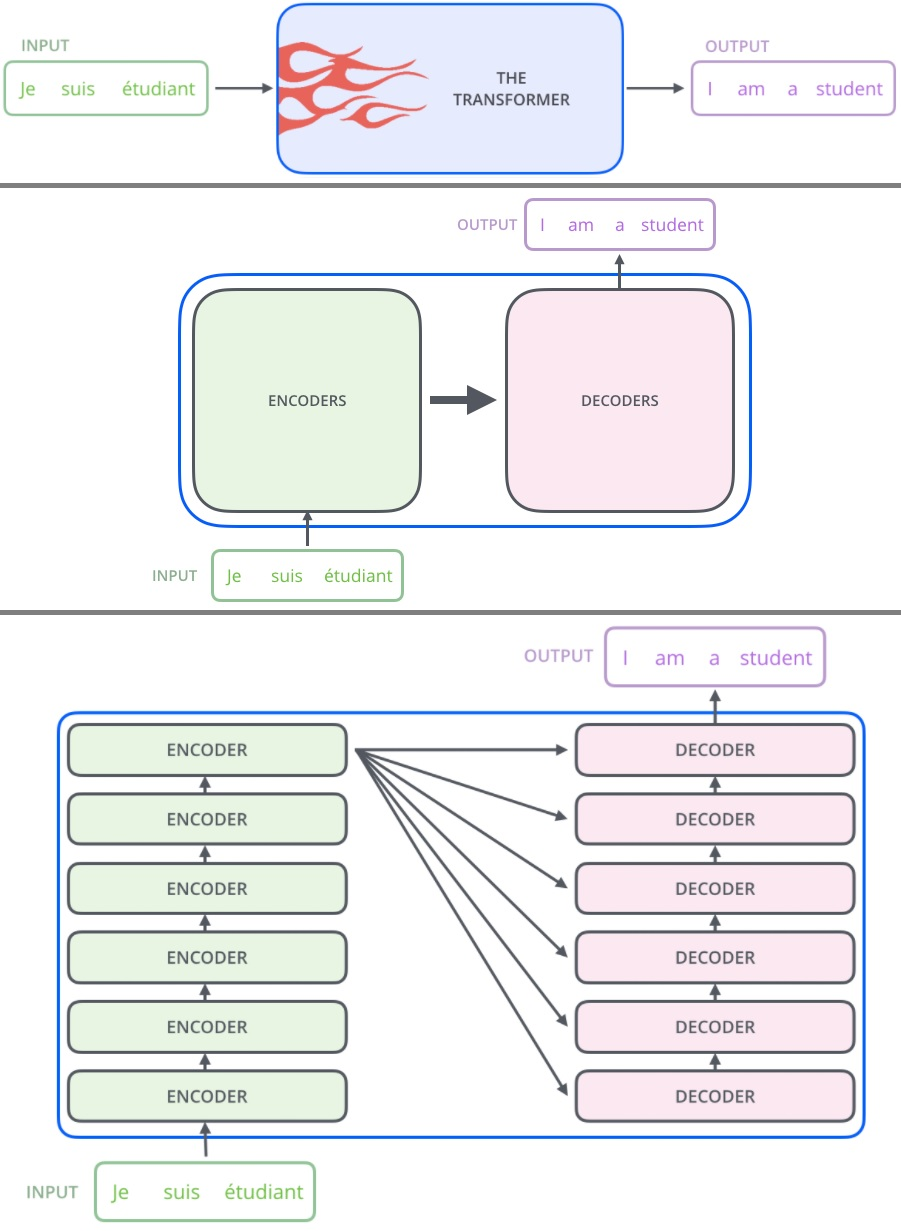
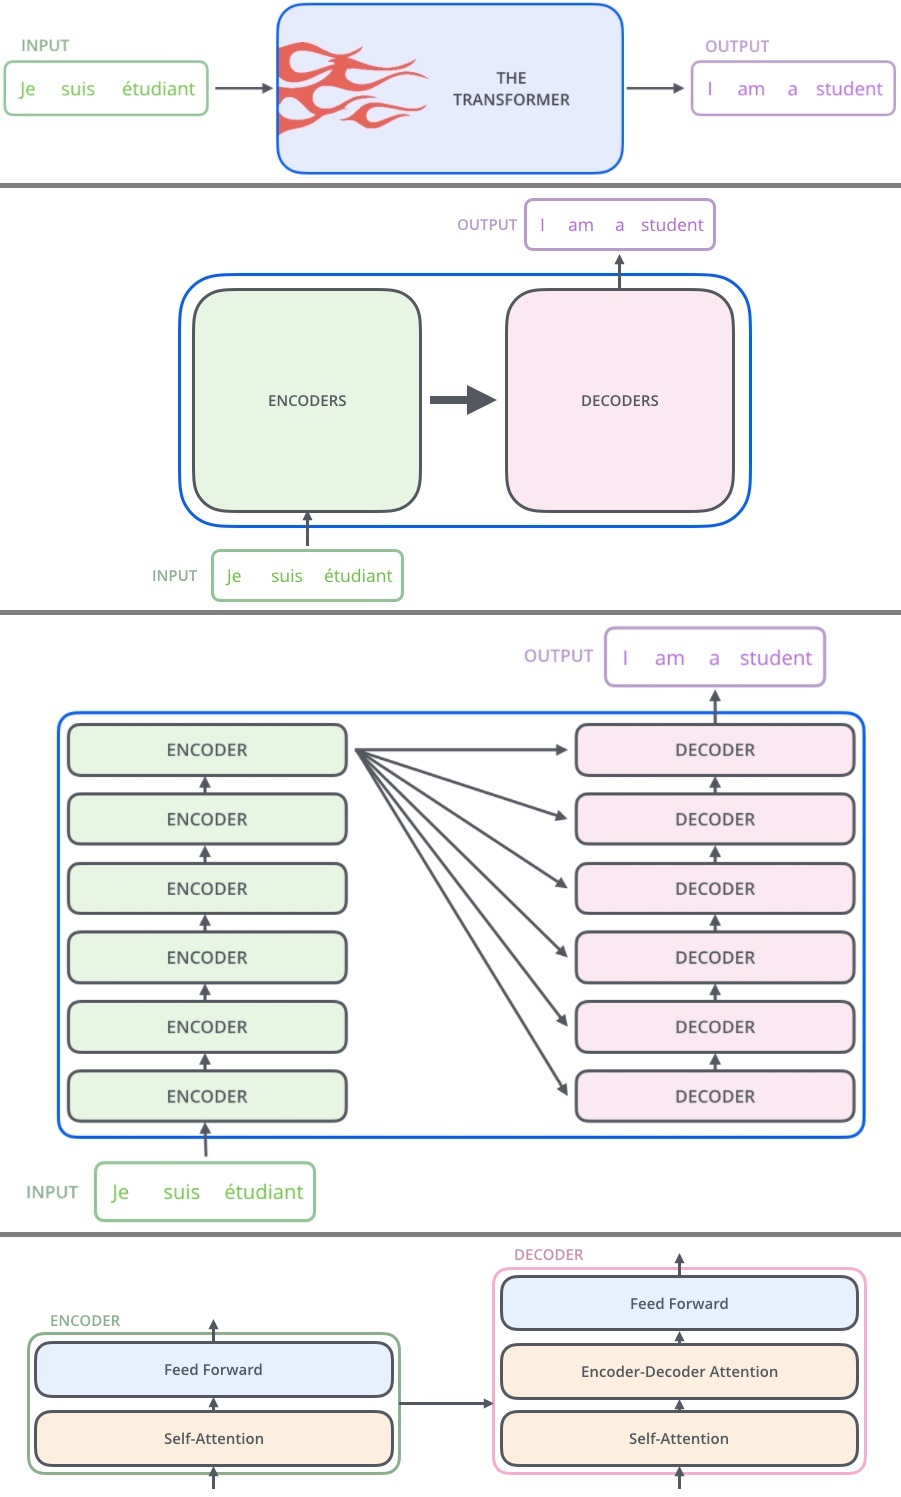
1

Changed region(s): [[0.0, 0.3087, 1.0, 1.0], [0.0, 0.0, 1.0, 0.2778]]

diff --git a/_posts/2020-11-12-deep-learning-Transformer.md b/_posts/2020-11-12-deep-learning-Transformer.md
@@ -40,7 +40,10 @@ Transformer 来自 Google 团队 2017 年的文章 **《Attenion Is All You Need
 
 ## 2.1. Encoder
 
-下面将目光聚焦到 Encoder，它由两个 sub-layer 组成，分别是 multi-head self-attention mechanism 和 fully connected feed-forward network。
+下面将目光聚焦到 Encoder，它由两个 sub-layer 组成，分别是
+
+- multi-head self-attention mechanism
+- fully connected feed-forward network
 
 ![attention](../assets/img/postsimg/20201112/1.2.jpg)
 
